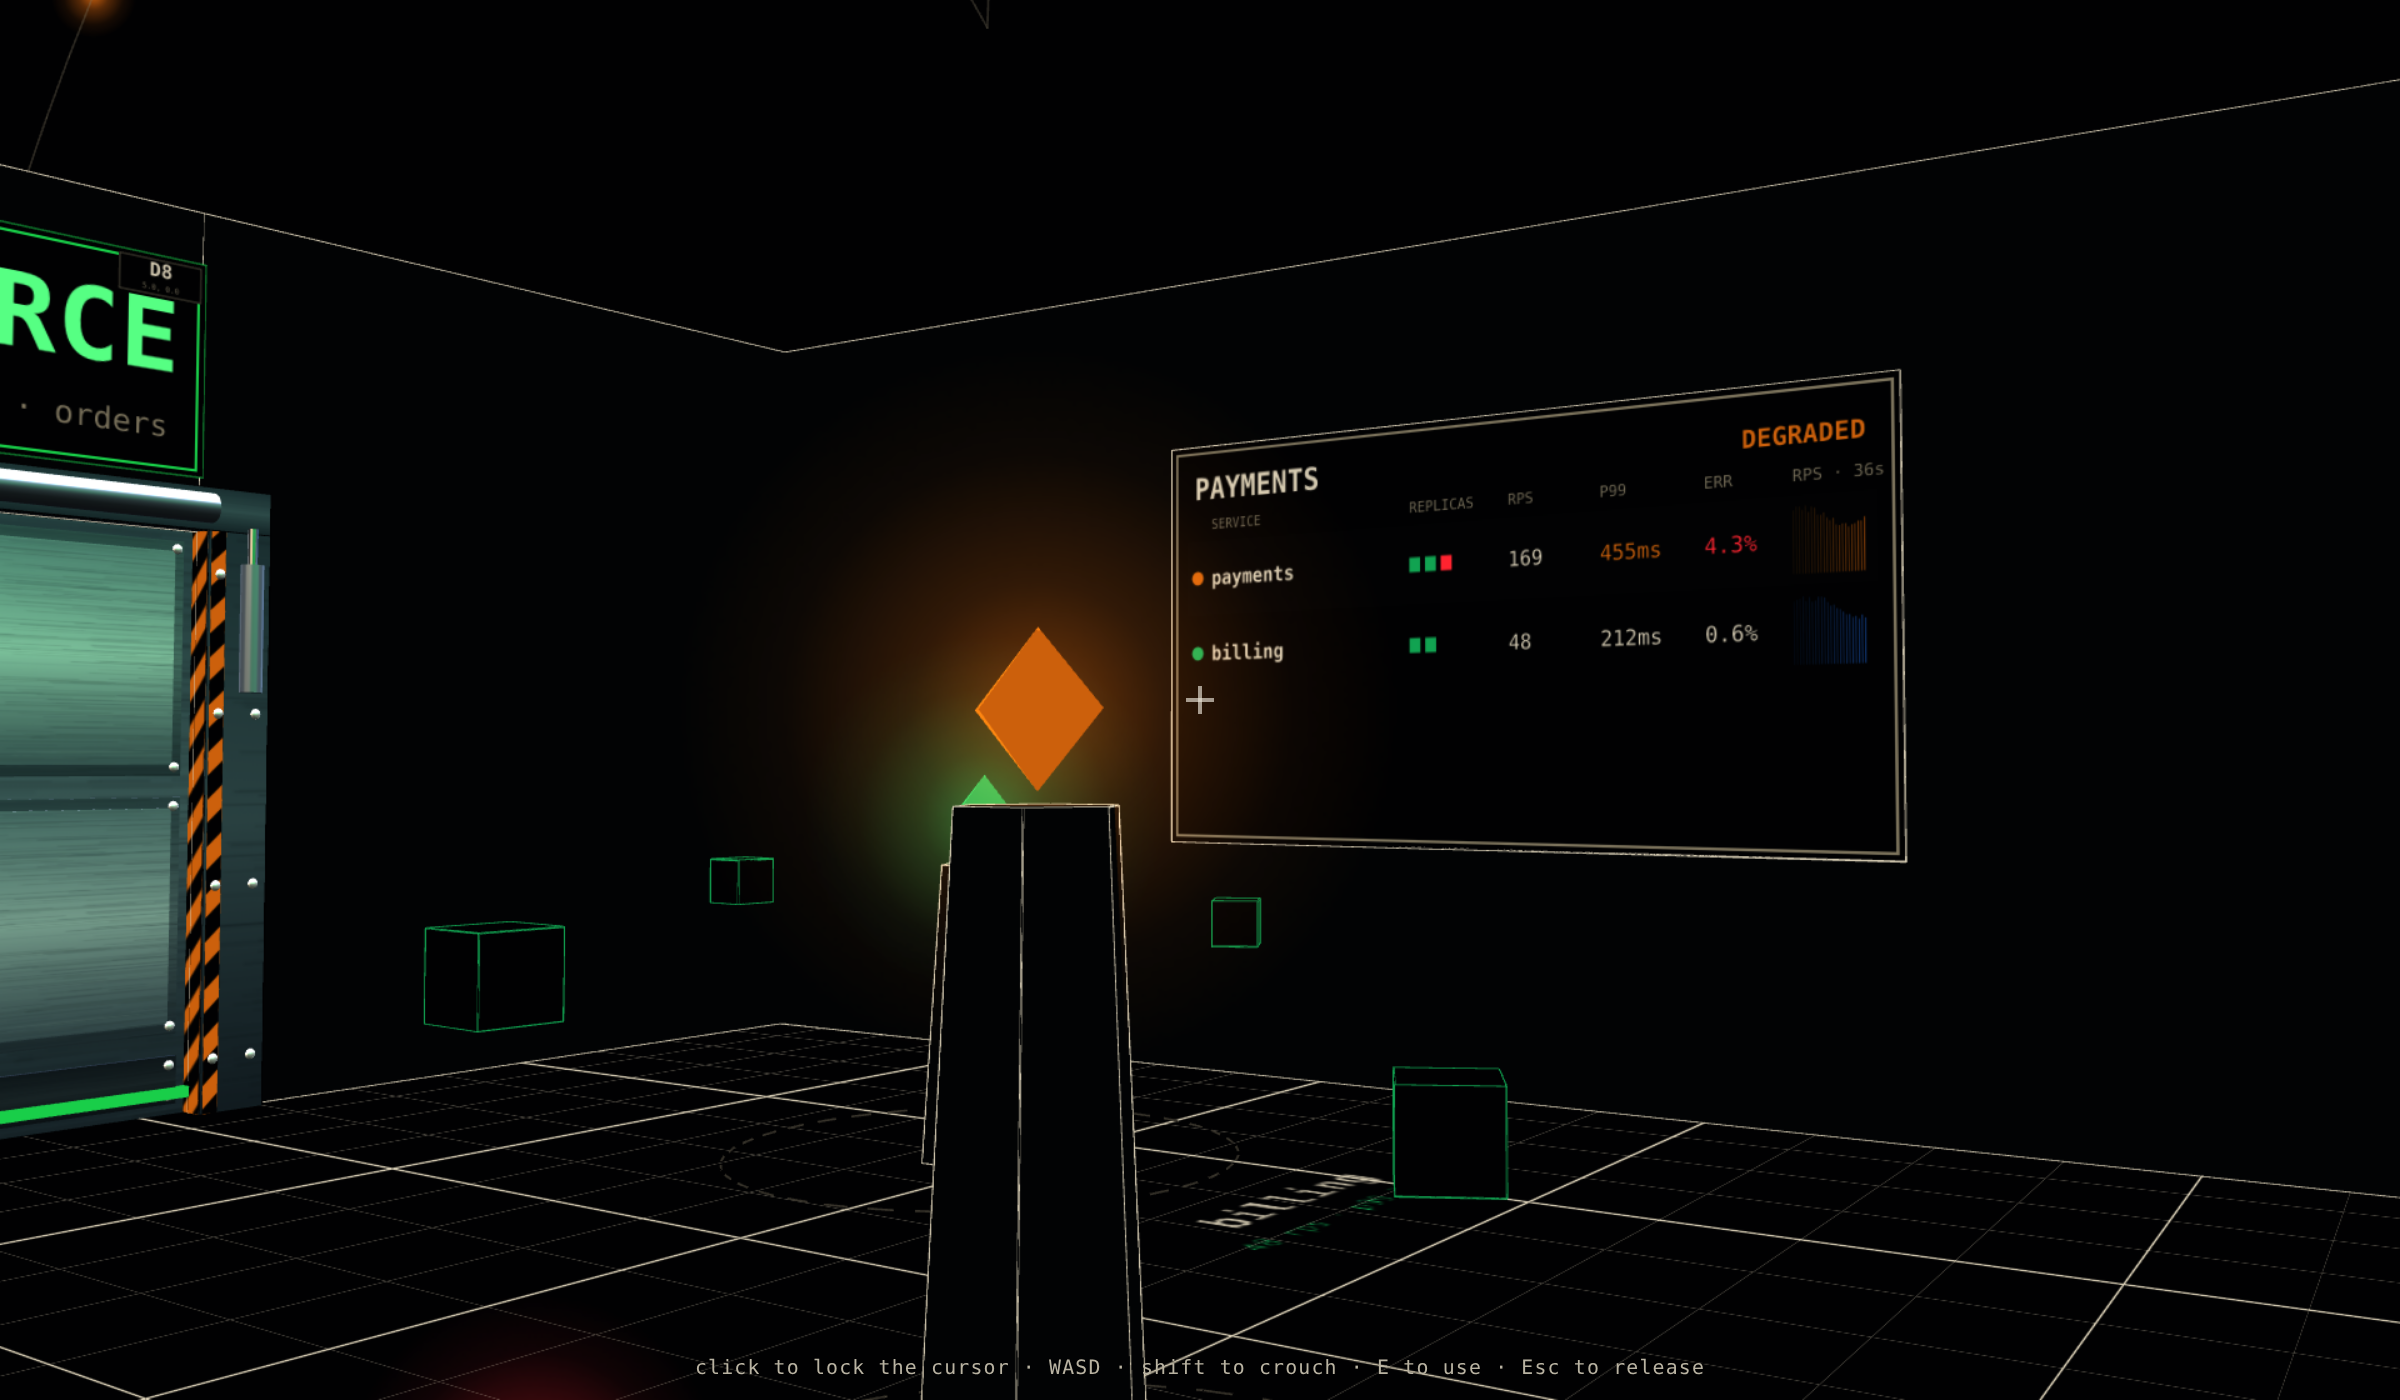
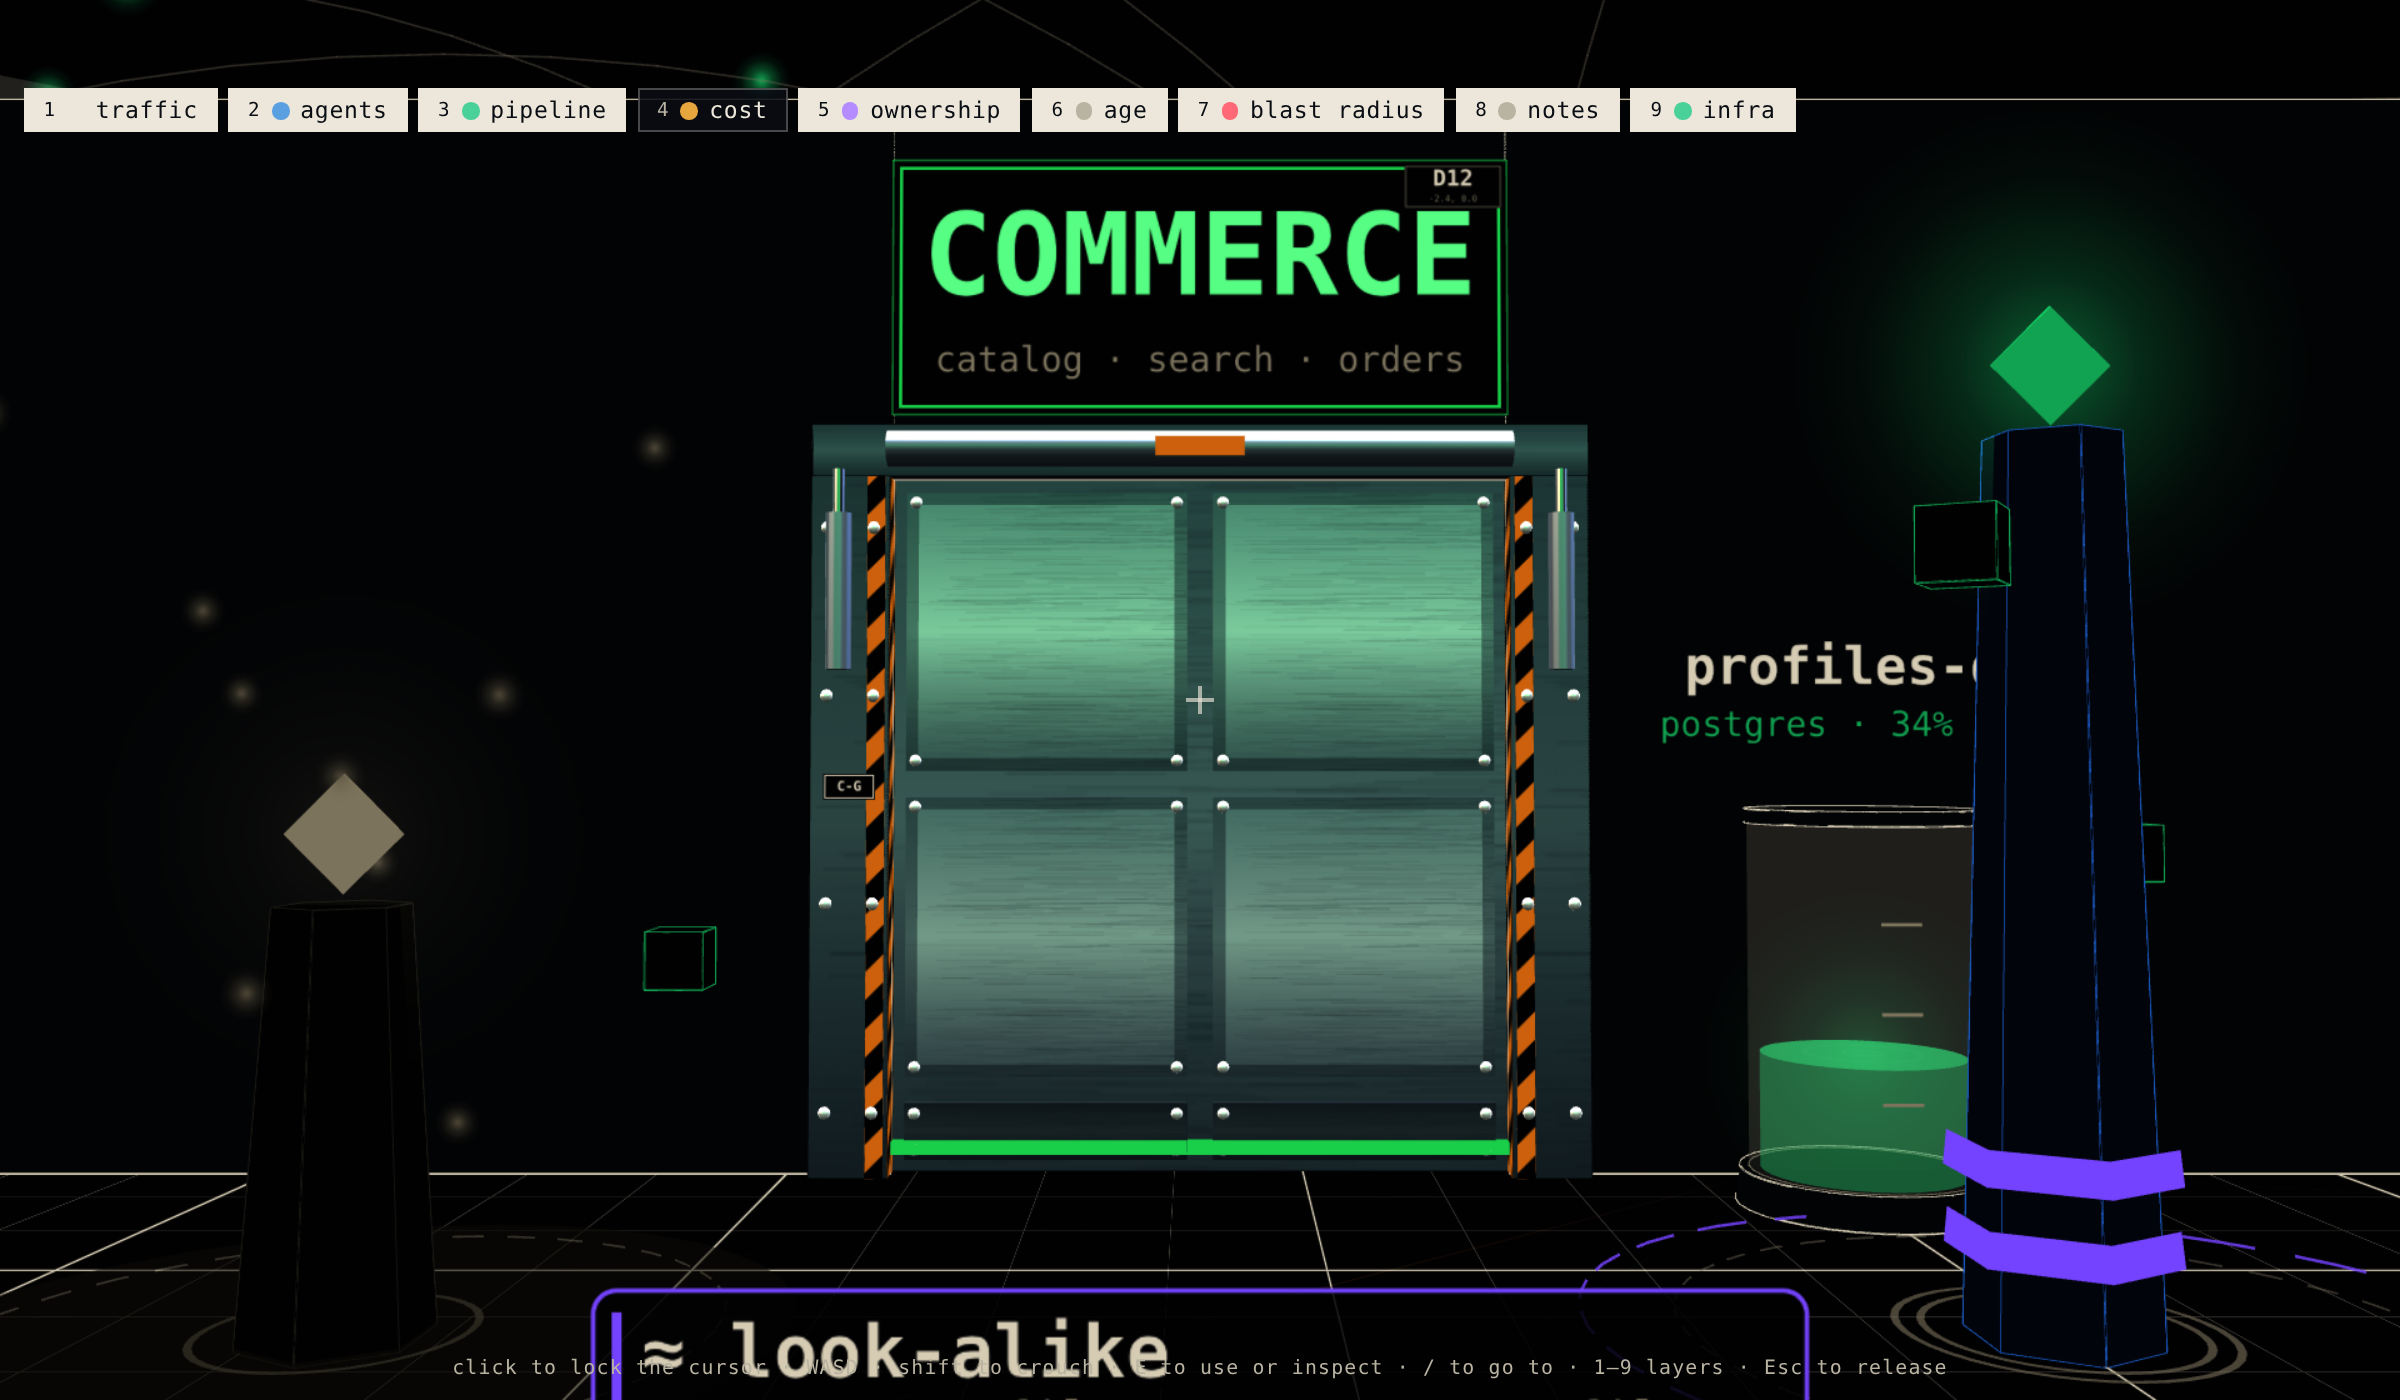
docs: the factory in the README, a kit guide, and new screenshots
README now says what you can see (agents, the work line and review pile,
sprawl, infra and cost, blast radius) and do (inspect, layers, go-to and
follow, timeline, tours, terminal macros), with two new shots. AGENTS.md maps
src/kit and examples/company/src/factory; docs/GUIDE-kit.md is a short tour
of the kit. The screenshot script moves the camera with the go-to palette, so
it follows the plan instead of copying world coordinates.

Claude-Session: https://claude.ai/code/session_019EPYUWz9gcB9uawZGoN76F

diff --git a/README.md b/README.md
@@ -5,13 +5,39 @@ Draw your data as a *place*: rooms with boards on the walls, sliding doors, term
 and press **E** at, an orbit camera for looking around and a first-person walk mode for being in it.
 It started as the live "SITE" view of an engineering dashboard and was lifted out as a library.
 
-![A company's ten microservices as a building: four rooms (EDGE, COMMERCE, PAYMENTS, PLATFORM), a pylon per service with its replicas orbiting it, live dashboards on the walls, and the calls between services as glowing arcs overhead](media/overview.png)
+![A software factory as a building: six rooms (EDGE, COMMERCE, PAYMENTS, PLATFORM, GROWTH, DATA), a pylon per service, databases as tanks, agents at work, and the calls between services as glowing arcs overhead](media/overview.png)
 
-| Walk in: the PAYMENTS room mid-incident | The on-call console, powered |
+## What you can see
+
+- **Agents at work.** Each AI coding session is a small drone that walks to the service it is changing.
+  Its visor shows what it is doing; a "?" means it is stuck waiting on someone.
+- **The factory floor.** Work moves along a conveyor: ticket, agent, PR, CI, review, deploy. Failed CI
+  drops into a reject bin. PRs waiting for a human pile up at review, so a slow review is easy to spot.
+- **Sprawl.** Services nothing calls, look-alike duplicates, services with no team owner, who made each
+  one (a person or an agent) and how old it is.
+- **What services lean on.** Databases as tanks, queues as pipes with their backlog, third parties at
+  the loading dock, cost per room, and padlocks on secrets.
+- **Blast radius.** Select a service and see what breaks if it fails.
+
+## What you can do
+
+- **Inspect** anything: click it (or press **E** in walk mode) for a panel with its details.
+- **Layers**: turn traffic, agents, cost, ownership, age, blast radius and more on and off (keys **1–9**).
+- **Go to and follow**: press **/** and type a name to fly there; follow an agent as it works.
+- **Timeline**: scrub back through six months and watch the building grow.
+- **Tours**: a guided walk through a story, such as "why is checkout slow?".
+- **Act from a terminal**: the on-call console has a few safe buttons (pause an agent, approve a PR,
+  roll back), and every run is logged.
+
+| The factory hall and its review pile | A selected service and its blast radius |
 | --- | --- |
-| ![First person in the PAYMENTS room: an orange (degraded) beacon on the payments pylon and its wall dashboard showing a dead replica, 455ms p99 and 4.3% errors](media/walk.png) | ![The on-call terminal: every service with its traffic, latency and health, and runbook buttons for the two that need attention](media/terminal.png) |
+| ![The factory hall from above: belts from ticket to deploy, stations with their counts, a red reject bin and a pile of orange PRs waiting at review](media/factory.png) | ![The orders service selected: corner brackets round its pylon, an "if orders fails, 2 services break" banner, and the inspect panel with its health, owner, origin, calls and what it leans on](media/inspect.png) |
 
-<sub>All from `examples/company`, a fictional company running ten microservices. Regenerate with `bun run screenshot`.</sub>
+| Walk in: first person at the COMMERCE door | The on-call console, powered |
+| --- | --- |
+| ![First person outside the COMMERCE room: its banner over the door, a database tank and pylons either side, and a look-alike duplicate flagged on the floor](media/walk.png) | ![The on-call terminal: every service with its traffic, latency and health, three restricted macros and runbook buttons](media/terminal.png) |
+
+<sub>All from `examples/company`, a fictional company whose services are mostly made by agents. Regenerate with `bun run screenshot`.</sub>
 
 ## Why
 
@@ -59,17 +85,18 @@ import { SiteWorld, GridFloor, WallBoxes } from "site-world";
 
 ```bash
 bun install
-bun run example:company   # ten microservices in four rooms, live (the screenshots above)
+bun run example:company   # the software factory, live (the screenshots above)
 bun run example           # the smallest world: one room, a door, a terminal, a pylon, and demons
 ```
 
 Both use only the public API.
 
-- [`examples/company/`](examples/company/) is a fictional company's ten microservices as a building:
-  a room per domain, a pylon per service (its height is traffic, its orbiting cubes are replicas, its
-  beacon is health), a live dashboard per room, the call graph overhead, and an on-call console.
-  [`services.ts`](examples/company/src/services.ts) is the one file to replace with your own service
-  catalogue and metrics; [`serviceRoom.tsx`](examples/company/src/serviceRoom.tsx) turns a domain into a room.
+- [`examples/company/`](examples/company/) is a fictional company's software factory as a building:
+  a room per domain planned from its service catalogue, a pylon per service (its height is traffic, its
+  orbiting cubes are replicas, its beacon is health), agents and people at work, the factory hall,
+  the loading dock, a timeline, a tour and an on-call console.
+  [`factory/catalog.ts`](examples/company/src/factory/catalog.ts) is the file to replace with your own
+  services; [`plan.ts`](examples/company/src/plan.ts) turns it into a building.
 - [`examples/basic/`](examples/basic/) is the starter: start by reading
   [`notesRoom.tsx`](examples/basic/src/notesRoom.tsx) to see what a room is.
 
@@ -82,6 +109,8 @@ Both use only the public API.
 | **Terminals** | A screen on a plinth. One slot powers at most one at a time; walking up never powers it, **E** (or a click in orbit) does. |
 | **Doors** | `SiteDoor` data → leaf, frame, walk-up trigger, collider box. Slide or bi-parting. |
 | **Walk mode** | Capsule physics on an octree: crouch, jump, coyote time, ramps, a kill plane with checkpoints. |
+| **Layout** | `layoutCatalog`: a building planned from your domains and services. |
+| **Kit** | Agents, people, the work line, tanks, queues, the dock, and the interactions above (inspect, layers, go-to, follow, timeline, tours). |
 | **Doom** | A small, optional demon shooter that runs in your world's floor plan. |
 
 ## Terminals
@@ -122,6 +151,7 @@ Start with [`AGENTS.md`](AGENTS.md) (humans: it is also the contributor map), th
 - [`docs/GUIDE-first-world.md`](docs/GUIDE-first-world.md) — build a world from nothing.
 - [`docs/GUIDE-add-a-room.md`](docs/GUIDE-add-a-room.md) — add a terminal / board room.
 - [`docs/GUIDE-add-a-door.md`](docs/GUIDE-add-a-door.md) — add a door.
+- [`docs/GUIDE-kit.md`](docs/GUIDE-kit.md) — agents, work, infra and the interactions.
 - [`docs/GUIDE-doom.md`](docs/GUIDE-doom.md) — wire up (or leave out) the game.
 - [`docs/REFERENCE.md`](docs/REFERENCE.md) — every export, one line each (generated; CI keeps it current).
 

diff --git a/docs/GUIDE-kit.md b/docs/GUIDE-kit.md
@@ -1,0 +1,60 @@
+# Guide: the kit (agents, work, infra, interactions)
+
+`src/kit/` is a box of parts for showing a software factory in your world. Every part takes data as
+props and draws it; none of them knows your services. `src/layout/` plans the building from a catalogue.
+`examples/company` uses all of it — read `App.tsx` and `FactoryScene.tsx` there for the wiring.
+
+## Plan the building from a catalogue
+
+```ts
+const plan = layoutCatalog({ domains, services }, { entrances: true, wings: [{ id: "hall", label: "HALL", side: "north", width: 30, depth: 12 }] });
+// plan.walls, plan.doors, plan.rooms, plan.slotByName["orders"].pos, plan.wings …
+```
+
+One room per domain, one slot per service. Pass `plan.walls` to `<WallBoxes>`/`<WallSolids>` and
+`plan.doors` to `<SiteWorld>`. `lodFor` / `lodForRect` pick how much to draw by camera distance.
+
+## What there is to draw
+
+| Want to show | Use |
+| --- | --- |
+| an agent session at work, walking between services | `<AgentFigure>` (+ `agentPath`, `crowdLayout`) |
+| a person in the room | `<PresenceMarker>` |
+| work flowing ticket → agent → PR → CI → review → deploy | `<WorkLine>` (belts, stations, crates, a reject bin) |
+| databases, queues, third parties | `<Tank>`, `<QueuePipe>`, `<LoadingDock>` |
+| cost, a budget, spend across the floor | `<Meter>`, `<FloorHeat>` |
+| secrets, notes left in the world | `<Padlock>`, `<StickyNote>` |
+
+## Make things inspectable
+
+```tsx
+const SELECTION = createSelectionStore();            // module constant: both React trees read it
+<Selectable store={SELECTION} kind="service" id="orders" mode={mode}>…</Selectable>   // in the canvas
+<SelectionCrosshair store={SELECTION} enabled={mode === "walk"} />                     // E in walk mode
+const sel = useSelection(SELECTION);                                                   // DOM side
+<InspectPanel open={!!sel.selected} title=… fields=… actions=… onClose={sel.clear} />  // in `overlay`
+```
+
+`blastRadius(calls, id)` lists who breaks if a service fails; draw it however you like.
+
+## Move the camera
+
+Everything that moves the camera hands `<SiteWorld hostGoal>` a goal; the host picks which wins.
+
+- `goalFor(point, { from, distance })` — fly to a point. `<GoToPalette>` is a fuzzy search that reports a pick.
+- `useFollow(getPoint, on)` — keep the camera on something moving (an agent's `bodyRef`).
+- `useTour(stops)` + `<TourCaption>` — a guided walk through a story, arrows and Esc.
+- `useTimeline` + `<TimelineScrubber>` — scrub or play back time; you render the moment it shows.
+
+`useLayers(defs)` + `<LayerBar>` toggle what is drawn (traffic, cost, ownership…).
+
+## Keys the kit claims
+
+While mounted: `<GoToPalette>` takes **/** and **Ctrl/Cmd+K**, `<LayerBar>` the digits **1–9**,
+`<SelectionCrosshair>` **E** in walk mode. All skip text fields and open dialogs. If your app already
+uses one, pass `hotkeys={false}` (or `useKey={false}`) and open or toggle it yourself.
+
+## Rules
+
+- Pass `reduce` through: decorative motion stops, motion that means something (an agent walking) stays.
+- Keep host data out of the kit: new parts take props, like the rest of `src/`.

diff --git a/AGENTS.md b/AGENTS.md
@@ -31,8 +31,17 @@ src/camera/           orbit math
 src/world/            SiteWorld (the viewport) and WorldParts (GridFloor, WallBoxes, solids)
 src/doom/             the optional demon game: rules, nav, hunt AI, store, 3D bodies, HUD
 src/layout/           catalog-driven floor plans: layoutCatalog (domains+services -> walls, doors, rooms, slots), LOD, room graph
+src/kit/              parts for a software factory, all data-in props (see docs/GUIDE-kit.md):
+                        agents + people   AgentFigure, PresenceMarker, NameTag, AgentTrail; agentPath, crowdLayout
+                        the work line     WorkLine (Conveyor, Station, Crate), workLineLayout
+                        infra             Tank, QueuePipe, LoadingDock, Meter, FloorHeat, Padlock, StickyNote; infraMath
+                        interactions      Selectable + SelectionCrosshair + selection store, InspectPanel, LayerBar,
+                                          GoToPalette, goalFor, useFollow, useTour/TourCaption,
+                                          useTimeline/TimelineScrubber, blastRadius; kit.css
 examples/basic/       a toy world using only the public API — keep it compiling and small
-examples/company/     ten microservices as a building (the README screenshots) — public API only
+examples/company/     a software factory as a building (the README screenshots) — public API only
+  src/factory/        its data: catalogue (with sprawl), agents, pipeline, infra, history, metrics, the live feed
+  src/plan.ts         the building planned from the catalogue; App.tsx the interactions; FactoryScene.tsx what moves
 docs/                 ARCHITECTURE, GUIDE-*, REFERENCE (generated)
 ```
 
